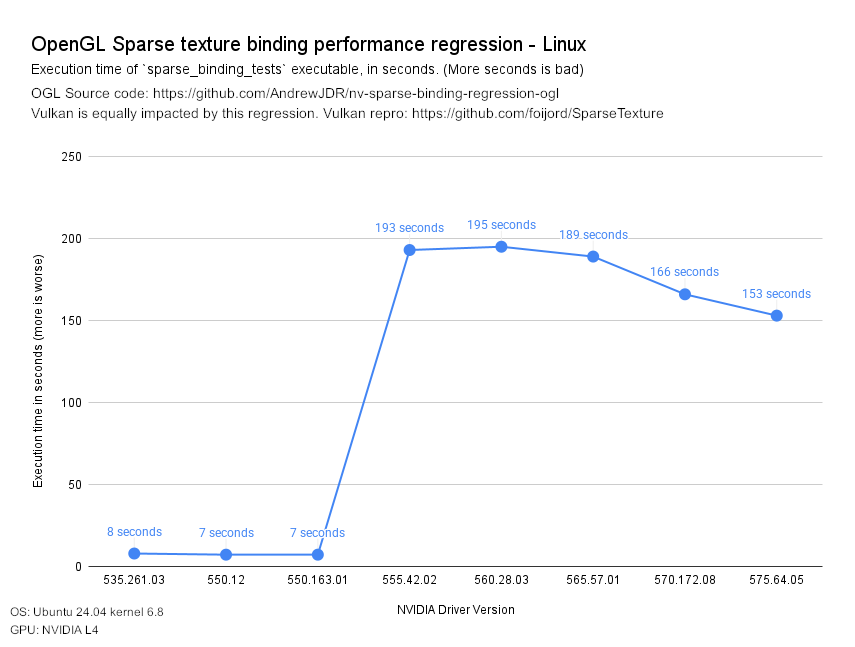
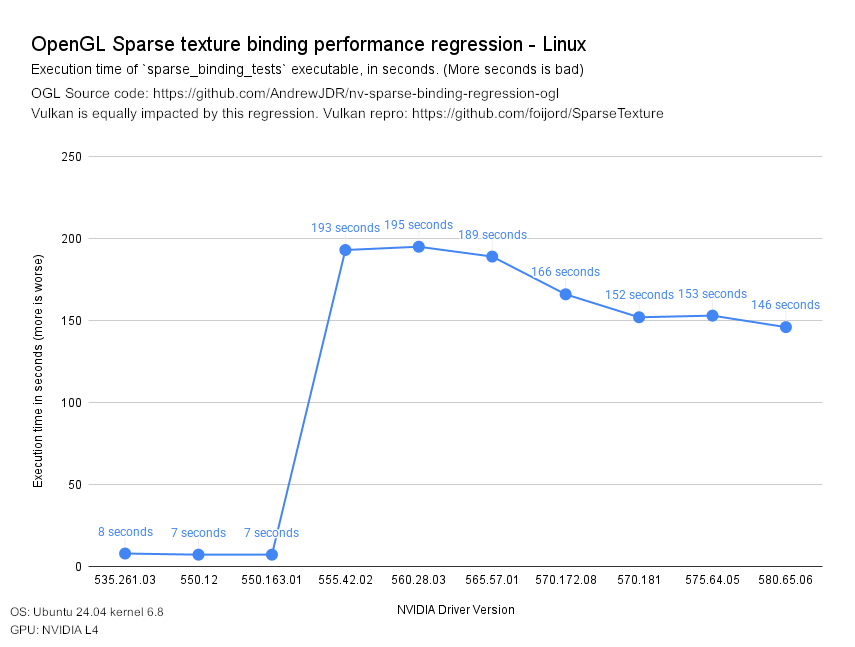
Update with latest driver stats (no change, regression still exists).

diff --git a/README.md b/README.md
@@ -28,6 +28,15 @@ All tests below were run on the same machine with the same GPU (NVIDIA L4) and t
 
 Kernel 6.14 was also tested but it made no difference, so those results aren't included here.
 
+#### NVIDIA driver 580.65.06 (bad)
+```
+TOTAL COMMITS: 87040
+TOTAL EVICTS: 87040
+TOTAL COMMIT TIME: 66038.959517ms
+TOTAL EVICT TIME: 80467.360948ms
+TOTAL TIME (commit + evict): 146506.320465ms
+```
+
 #### NVIDIA driver 575.64.05 (bad)
 ```
 TOTAL COMMITS: 87040
@@ -35,6 +44,15 @@ TOTAL EVICTS: 87040
 TOTAL COMMIT TIME: 68810.126449ms
 TOTAL EVICT TIME: 83838.565101ms
 TOTAL TIME (commit + evict): 152648.691550ms
+```
+
+#### NVIDIA driver 570.181 (bad)
+```
+TOTAL COMMITS: 87040
+TOTAL EVICTS: 87040
+TOTAL COMMIT TIME: 74813.817438ms
+TOTAL EVICT TIME: 76688.446890ms
+TOTAL TIME (commit + evict): 151502.264328ms
 ```
 
 #### NVIDIA driver 570.172.08 (bad)
